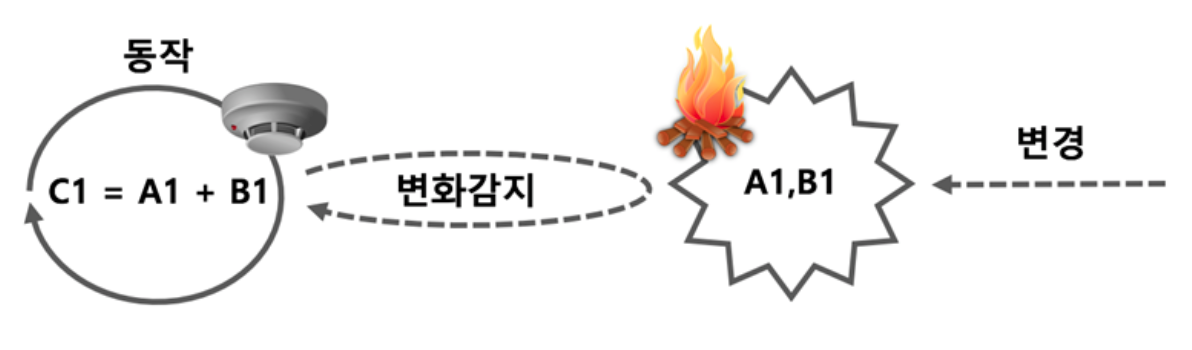
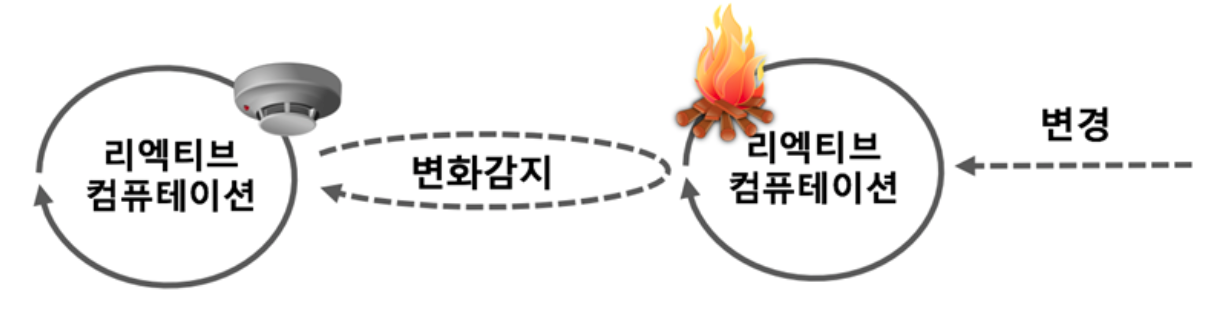
GitBook: [master] 49 pages and 4 assets modified

Changed region(s): [[0.0, 0.0, 0.9933, 0.9062], [0.8381, 0.3125, 0.9312, 0.4688]]

diff --git a/29/29.2.md b/29/29.2.md
@@ -1,0 +1,127 @@
+# 29.2 기본 패키지를 이용한 실습
+
+리액티비티는 변화를 발산하는 "리액티브 데이터 소스", 그리고 이 데이터 소스의 변화를 감지하여 \(재\)실행되는 "리액티브 컴퓨테이션", 이 두 가지 핵심 요소로 구성된다. 이것을 엑셀을 통하여 알아보았다. 그렇다면 미티어는 어떨까? 바로 이전 29.1에서의 리액티비티 정리 1, 2, 3이 미티어에서도 해당하는지 실험해보자.
+
+실험하기 위해서 프로젝트를 생성한다\(이해를 위해서는 직접 해 보는 걸 권하지만, 다른 장에서 참조를 통해 넘어 온 거라면 가볍게 읽고 넘어가도 좋다\).
+
+`콘솔에서 reactivity 프로젝트 생성` : 
+
+```text
+~/Projects$ meteor create reactivity
+reactivity: created.                          
+
+To run your new app:                          
+  cd reactivity                               
+meteor
+
+~/Projects$ cd reactivity
+~/Projects/reactivity$ meteor run
+```
+
+콘솔을 하나 더 열고 미티어에서 리액티브 데이터 리소스를 만들어 주는 reactive-var 패키지를 설치하자.
+
+```text
+~/Projects/reactivity$ meteor add reactive-var 
+
+reactive-var: Reactive variable     
+~/Projects/reactivity$
+```
+
+이제 준비가 다 되었다. 이제부터 코드로 미티어의 리액티비티를 증명해보자!
+
+> **리액티비티 정리 1**  
+> 리액티브 컴퓨테이션은 함수 구문에 리액티브 데이터 소스\(A1, B2\)의 변화를 감지하여 재실행된다.
+
+정리 1을 실험해 보기 위해서는 미티어에서 리액티브 데이터 소스 A1, B1을 만들어야 한다. ~/Projects/reactivity/client/main.js 파일 내부의 모든 내용을 지우고 다음과 같이 작성해보자.
+
+`~/Projects/reactivity/client/main.js` : 
+
+```javascript
+    A1 = new ReactiveVar(5);
+    B1 = new ReactiveVar(8);
+    console.log( "A1 : ", A1.get(), ", B1 : ", B1.get() );
+```
+
+그리고 ~/Projects/reactivity/client/main.html 파일의 내용을 모두 비우자.
+
+`~/Projects/reactivity/client/main.html` : 
+
+```javascript
+<!-- 삭제합니다 -->
+```
+
+미티어에서 리액티브 데이터 소스를 만드는 오브젝트인 ReactiveVar 객체를 이용하여 A1, B1이라는 리액티브 데이터 소스를 5, 8이라는 초깃값을 주어 생성했다. ReactiveVar 객체의 get 메서드를 이용해 콘솔에 값을 출력해 보았다. 결과는 다음 그림과 같다.
+
+![&#xADF8;&#xB9BC; 29-8 &#xB9AC;&#xC561;&#xD2F0;&#xBE0C; &#xB370;&#xC774;&#xD130; &#xC18C;&#xC2A4; &#xC0DD;&#xC131; &#xBC0F; &#xCD9C;&#xB825; &#xD14C;&#xC2A4;&#xD2B8;](../.gitbook/assets/image%20%2828%29.png)
+
+이제 리액티브 데이터 컴퓨테이션 함수 C1을 다음과 같이 만들자.
+
+`~/Projects/ reactivity/client/main.js` :
+
+```javascript
+  ...생략...
+  C1 = function(){
+        var sum = A1.get() + B1.get();
+        console.log( "여기는 C1 함수 fx = A1+B1 => ", sum);
+        return sum;
+    };
+  Tracker.autorun(C1);
+```
+
+C1 함수는 엑셀에서처럼 `A1.get() + B1.get();`을 반환하게 작성했다. 하지만 미티어에서 리액티브 데이터 소스를 함수 내에서 사용하는 것만으로 리액티브 컴퓨테이션 함수가 되는 것은 아니다. `Tracker` 객체의 `autorun` 메서드를 이용해 리액티브 컴퓨테이션으로 만들어 주어야 한다.
+
+{% hint style="info" %}
+Tracker 객체에는 autorun 메서드가 있으며 우리가 작성한 함수를 사용자 리액티브 컴퓨테이션 함수로 만들어 준다. 구 버전에서는 Deps 객체였으나 Tracker로 이름이 변경되었다.
+{% endhint %}
+
+이제 선언했으니 A1.set\(값\) 형태로 콘솔에서 변경시켜서 리액티브 컴퓨테이션 C1이 자동으로 호출되는지를 확인해보자. 웹 브라우저 개발자 도구의 콘솔에서 다음처럼 입력해보자.
+
+```javascript
+> A1.set(12);
+```
+
+또한, B1 값도 set을 이용하여 22로 변경해보자.
+
+```javascript
+> B1.set(22);
+```
+
+컴퓨테이션의 동작을 그림에서 확인해보자.
+
+![&#xADF8;&#xB9BC; 29-9 &#xCEF4;&#xD4E8;&#xD14C;&#xC774;&#xC158; &#xB3D9;&#xC791; &#xD655;&#xC778;1](../.gitbook/assets/image%20%2818%29.png)
+
+C1 함수를 A1과 B1의 합을 구하는 함수로 선언만했는데, A1, B1 값이 변경된 것을 감지하여 C1 함수가 자동으로 호출되었다\(**리액티비티 정리1**\).
+
+> **리액티비티 정리 2**  
+> 리액티브 컴퓨테이션은 또 다른 리액티브 컴퓨테이션의 데이터 소스가 될 수 있다.
+
+**리액티비티 정리 2**를 실험해보자. 실험을 위해 기존 코드에 다음과 같이 C2 코드를 추가해보자.
+
+`~/Projects/ reactivity/client/main.js` : 
+
+```javascript
+    ...생략...
+    C2 = function(){
+        var avg = C1() / 2;
+        console.log( "여기는 C2 함수 fx = C1/2 =>", avg);
+        return avg ;
+    };
+    Tracker.autorun(C2);
+```
+
+그리고 콘솔의 지난 로그를 삭제 후 다음처럼 입력해보자\(Clear console 버튼을 클릭하거나 콘솔에서 Ctrl+L을 누르면 로그가 삭제된다\).
+
+```javascript
+> A1.set(12);
+```
+
+결과가 다음 그림처럼 나온다. 그림을 살펴보자.
+
+![&#xADF8;&#xB9BC; 29-10 &#xCEF4;&#xD4E8;&#xD14C;&#xC774;&#xC158; &#xB3D9;&#xC791; &#xD655;&#xC778;2](../.gitbook/assets/image%20%2824%29.png)
+
+첫 번째로 콘솔 로그를 지웠다. 그 뒤 A1 값을 변경함으로 인해서 C1, C2 함수가 자동으로 호출되었다. 
+
+이는 A1이 변경됨을 감지한 C1\(리액티브 컴퓨테이션\)함수가 자동으로 재계산되었고, C1이 자동으로 재계산되어 반환값이 변경됨을 감지한 C2 함수가 자동으로 호출되었다. 이것은 리액티비티 정리 2, 3이 동작한 것임을 알 수 있다.  과정에서 C1함수는 2번 호출 되었다. 첫번째로는 A1이 변경됨으로 인하여, 또 한번은 C1이 변경됨을 감지한 C2함수의 내용 안에 C1함수 호출이 포함되어 있어 총 2번 호출되었다.
+
+미티어도 엑셀과 같은 리액티비티의 세 가지 특징을 갖고 있음을 알 수 있고, ReactiveVar와 Tracker를 이용하여 사용자가 직접 리액티브 데이터 소스와 리액티브 컴퓨테이션 함수를 작성할 수 있음을 알 수 있다.
+

diff --git a/29/29.1.md b/29/29.1.md
@@ -1,0 +1,51 @@
+# 29.1 리액티비티의 개념과 미티어
+
+리액티비티 프로그래밍은 미티어를 이루는 개념의 큰 축이지만 아주 오래전부터 우리 주변에 있어온 개념이다. 가장 가까운 예제가 엑셀이다. 엑셀을 언급하기 전에 다음 코드를 잠깐 살펴보자.
+
+```text
+A1 = 5
+B1 = 8
+C1 = A1 + B1    
+A1 = 2 
+
+print(C1)
+```
+
+print가 값을 출력하는 함수라고 할 때 C1은 몇이 출력될까? 물론 13이 출력될 것이라고 추측된다. 일반 프로그래밍에서 C1은 13이다. 하지만 리액티브 프로그래밍에서 C1은 10이다. C1 = A1 + B1이라고 선언만 하여도 A1이나 B1 값이 바뀌면 그것이 감지되어 C1 값은 자동으로 재계산되어 할당된다.
+
+이것을 엑셀에서 한 번 살펴보자
+
+![&#xADF8;&#xB9BC; 29-2 &#xC5D1;&#xC140;&#xC758; &#xB9AC;&#xC561;&#xD2F0;&#xBE44;&#xD2F0;1](../.gitbook/assets/image%20%285%29.png)
+
+그림처럼 작성하고 나서 A1이나 B1의 값을 바꿔보자. C1의 값은 자동으로 변경되는 걸 확인할 수 있다. 우리는 A1이나 B1 셀의 값만 바꾸었을 뿐 C1의 값을 재계산하기 위해 아무것도 하지 않았다.
+
+다시 엑셀로 돌아가 다음 그림을 보자.
+
+![&#xADF8;&#xB9BC; 29-3 &#xC5D1;&#xC140;&#xC758; &#xB9AC;&#xC561;&#xD2F0;&#xBE44;&#xD2F0;2](../.gitbook/assets/image%20%2811%29.png)
+
+C1의 값은 "fx=A1+B1"라고 표시되어 있다. 화재를 감지한 뒤 물을 뿌리는 동작을 정의한 것이다. 즉, fx는 A1과 B1을 더하여 C1에 할당하는 "동작"을 정의했다. 그리고 이 동작은 A1과 B1이 변경 될 때마다 엑셀에 의해 자동으로 재호출된다. 이것이 엑셀의 "리액티비티"다.
+
+![&#xADF8;&#xB9BC; 29-4 &#xC5D1;&#xC140;&#xC758; &#xB9AC;&#xC561;&#xD2F0;&#xBE44;&#xD2F0;&#xAC00; &#xB3D9;&#xC791;&#xD558;&#xB294; &#xBC29;&#xC2DD;](../.gitbook/assets/image%20%2830%29.png)
+
+
+
+미티어에서는 A1, B1처럼 데이터를 포함한 셀을 "리액티브 데이터 소스", 그리고 "A1 + B1"처럼 연산하여 동작하는 것을 "리액티브 컴퓨테이션"이라고 부른다.
+
+![&#xADF8;&#xB9BC; 29-5 &#xB9AC;&#xC561;&#xD2F0;&#xBE0C; &#xB370;&#xC774;&#xD130; &#xC18C;&#xC2A4;&#xC640; &#xB9AC;&#xC561;&#xD2F0;&#xBE0C; &#xCEF4;&#xD4E8;&#xD14C;&#xC774;&#xC158;](../.gitbook/assets/image%20%286%29.png)
+
+
+
+그리고 리액티브 컴퓨테이션은 또 다른 컴퓨테이션의 소스가 될 수 있다. 다음 그림을 보자.
+
+![&#xADF8;&#xB9BC; 29-6 &#xB9AC;&#xC561;&#xD2F0;&#xBE44;&#xD2F0;&#xC758; &#xC804;&#xC774;](../.gitbook/assets/image%20%2814%29.png)
+
+위 그림에서 C1은 "fx = C1 / 2" 안에 C2의 값을 결정하는 함수의 데이터 소스로 사용된다. 이것은 리액티브 컴퓨테이션은 다른 컴퓨테이션의 데이터 소스가 될 수 있음을 의미한다. 게다가 A1, B1의 값이 변경되면 그 이벤트의 감지가 C1을 거쳐 C2까지 자동으로 전달된다. 이것은 미티어도 마찬가지다.
+
+![&#xADF8;&#xB9BC; 29-7 &#xB9AC;&#xC561;&#xD2F0;&#xBE0C; &#xCEF4;&#xD4E8;&#xD14C;&#xC774;&#xC158;&#xC744; &#xB370;&#xC774;&#xD130; &#xC18C;&#xC2A4;&#xB85C; &#xC0AC;&#xC6A9;&#xD560; &#xC218; &#xC788;&#xB2E4;](../.gitbook/assets/image%20%2833%29.png)
+
+지금까지 엑셀을 통해 알아본 리액티비티에 대한 성질을 정리하면 이렇다.
+
+1. **리액티비티 정리 1**  리액티브 컴퓨테이션은 함수 구문에 있는 리액티브 데이터 소스\(A1, B2\)의 변화를 감지하여 재실행 된다.  ****
+2. **리액티비티 정리 2** 리액티브 컴퓨테이션은 또 다른 리액티브 컴퓨테이션의 데이터 소스가 될 수 있다.  ****
+3. **리액티비티 정리 3**  리액티브 데이터 소스의 변화는 이를 감싸고 있는 상위 데이터 컴퓨테이션으로 전이되어 변화가 감지된다.
+

diff --git a/29/29.4.md b/29/29.4.md
@@ -1,0 +1,26 @@
+# 29.4 서버의 리액티비티
+
+미티어 서버에서 리액티비티의 핵심은 몽고DB 데이터 변화에 대한 감지다. 몽고DB\(마스터 또는 프라이머리\)는 데이터에 변화가 있을 때마다 오퍼레이션 로그를 남기고 복제 서버\(슬레이브 또는 세컨더리\)들이 로그를 읽어 스스로 반영한다. 이를 간단하게 도식화하면 다음과 같다.
+
+![&#xADF8;&#xB9BC; 29-13 &#xBABD;&#xACE0;DB&#xC758; &#xBCF5;&#xC81C;\(&#xB808;&#xD50C;&#xB9AC;&#xCE74; &#xC138;&#xD2B8;\) &#xC6D0;&#xB9AC;](../.gitbook/assets/image%20%2819%29.png)
+
+insert나 update 또는 remove에 의한 데이터 변경이 있을 때마다 몽고DB 프라이머리는 자신의 local 데이터베이스의 oplog.rs라는 컬렉션에 모든 로그를 기록한다. 만약 한 건의 update 요청에 의해 여러 건에 영향을 미쳤다면 친절하게도 모든 영향 받은 데이터를 로그로 남긴다. 이를 통해 세컨더리 몽고DB들은 서버와 똑같은 데이터를 가질 수 있게 된다.
+
+이런 몽고DB의 복제 원리를 미티어에서 잘 이용하고 있다. 그림으로 그려 보면 다음과 같다.
+
+![&#xADF8;&#xB9BC; 29-14 &#xBBF8;&#xD2F0;&#xC5B4;&#xC758; oplog &#xC2A4;&#xCE90;&#xB2DD;](../.gitbook/assets/image%20%2826%29.png)
+
+미티어 서버는 몽고DB의 슬레이브와 같이 oplog를 스캐닝하고 있다가 변화가 감지되면 구독 요청이 들어온, 현재 연결된 모든 웹 브라우저에 변화된 데이터를 보내준다. 따라서 웹 브라우저에서도 미니몽고에 반영할 수 있게 되는 것이다. 이제 서버의 리액티비티와 브라우저에서의 리액티비티를 하나로 연결하여 데이터 흐름을 보면 다음 그림과 같다.
+
+![&#xADF8;&#xB9BC; 29-15 &#xBBF8;&#xD2F0;&#xC5B4;&#xC758; &#xB9AC;&#xC561;&#xD2F0;&#xBE44;&#xD2F0;](../.gitbook/assets/image%20%2816%29.png)
+
+1. 몽고DB에서 insert, update, remove 등으로 인해 변화가 일어난다.
+2. 몽고DB는 oplog에 변화에 대한 모든 로그를 남긴다.
+3. 미티어 서버는 oplog의 변화를 감지한다.
+4. 변경된 데이터를 발행/구독으로 연결된 클라이언트로 전송한다.
+5. 미티어 서버에서 구독하여 변경된 정보를 미니몽고에 반영한다.
+6. 템플릿 헬퍼는 미니몽고 변화를 감지하고 변경된 데이터를 DOM에 제공한다.
+7. 변경된 데이터로 해당 DOM을 업데이트한다.
+
+이렇게 해서 몽고DB에서 변경된 데이터는 클라이언트까지 실시간으로 반영될 수 있다. 이 구간은 모두 리액티비티의 원리로 설명할 수 있다.
+

diff --git a/29/README.md b/29/README.md
@@ -1,0 +1,23 @@
+---
+description: >-
+  이번 장에서는 미티어의 리액티비티를 이해해보자. 리액티비티는 미티어의 근간을 구성하는 개념이지만, 기존 프로그래밍 방식과 달라서 혼자
+  학습하며 개념을 이해하기에 다소 생소하게 느낄 수 있다. 하지만 리액티비티가 그다지 새로운 개념도 아니니 부담을 가질 필요는 없다.
+---
+
+# 29장 리액티비티\(old\)
+
+ 좀 더 쉽게 리액티비티 개념을 이해하기 위해 다음 그림을 보자. 그림에서는 불을 감지하는 센서가 장작의 불을 감지하여 물을 불 위에 뿌리기까지의 과정을 도식화했다.
+
+![](../.gitbook/assets/image%20%2812%29.png)
+
+그림처럼 누군가 나무에 불을 붙였다면 당연히 나무는 불탄다. 이때 나무가 불타는 것을 센서가 감지하여 물을 뿌리게 된다. 이것은 우리 주위에 흔하게 있는 화재 감지 센서 이야기다. 너무도 당연한 이야기이다. 하지만 이것을 프로그래밍 방식으로 적용한다면 어떨까? 만약 그런 방식이 있다면 머라고 할까? 그림에서처럼 변경이 일어나는 무언가를 감지하여 그에 따른 동작을 일으키는 방식의 프로그래밍을 "리액티브 프로그래밍" 또는 "리액티브 프로그램"이라고 한다.
+
+미티어에서는 화재 감지 센서를 "**리액티브 컴퓨테이션**"이라고 하고 센서가 감지하는 대상인 장작을 "**리액티브 데이터 소스**"라고 한다. 다시 말해서 리액티브 데이터 소스\(장작\)가 외적인 요소\(점화\)로 인해 상태가 변경\(불\)되고, 그 변경\(장작-&gt;불\)을 감지한 리액티브 컴퓨테이션\(센서\)이 임의의 동작\(물 뿌리기\)을 하게 만드는 것이다.
+
+그런데 위와 같은 리액티브 프로그래밍을 우리는 이미 하고 있었다. 놀랍게도 우리가 자주 쓰는 엑셀과 같은 프로그램에서 수십 년 동안 존재해온 프로그래밍 방식이다. 그래서 이번 장에서는 미티어에 존재하는 리액티비티를 이해하기 위해, 역사가 오래된 엑셀의 리액티비티를 먼저 살펴보고 몇 가지 특징을 발견해보자. 그다음 발견해낸 특징, 즉 리액티비티의 특징을 미티어로 똑같이 구현해봄으로써 리액티비티를 완벽하게 이해해보자. 순서는 다음과 같다.
+
+* 리액티비티의 개념과 미티어
+* 기본 패키지를 이용한 실습
+* 웹 브라우저의 리액티비티
+* 서버의 리액티비티
+

diff --git a/29/29.3.md b/29/29.3.md
@@ -1,0 +1,20 @@
+# 29.3 웹 브라우저에서 리액티비티
+
+지금까지 리액티비티의 원리에 대하여 직접 구현하면서 알아보았다. 그리고 스페이스바에서 어떻게 리액티비티가 동작하는지 "26.6 스페이스바의 리액티비티"에서도 알아보았다. 이번에는 리액티비티가 클라이언트에서 어떻게 동작하는지 좀 더 구체적으로 알아보자. 우선 다음 그림을 살펴보자.
+
+![&#xADF8;&#xB9BC; 29-11 &#xD074;&#xB77C;&#xC774;&#xC5B8;&#xD2B8;&#xC5D0;&#xC11C;&#xC758; &#xB9AC;&#xC561;&#xD2F0;&#xBE44;](../.gitbook/assets/image%20%2831%29.png)
+
+그림에서 클라이언트에서 리액티비티에 의한 DOM의 변경 동작 순서는 다음과 같다.
+
+* 발행/구독에 따라 미니몽고의 데이터가 변화된다.
+* 변화된 미니몽고의 데이터가 감지되어 템플릿 헬퍼가 DOM을 업데이트한다.
+* 실제로 DOM이 변경된 부분만 업데이트된다.
+
+미티어의 발행/구독 코드에 따라 서버에서 추가, 변경, 삭제된 데이터가 미니몽고에 실시간으로 반영된다. 템플릿 헬퍼는 이 변화를 감지하여 DOM을 업데이트한다. 이때 DOM 전체를 업데이트하지 않고 변화된 부분만 업데이트한다. 주소록의 경우 name 필드의 값이 바뀌었으면 name을 표현하는 td의 HTML 코드만 업데이트한다. 해당 리스트나 tr 요소 전체를 업데이트하지 않는다.
+
+3장 주소록 만들기의 예제 코드에서 DOM 변경 동작 리액티비티 코드는 다음과 같다.
+
+![&#xADF8;&#xB9BC; 29-12 &#xD074;&#xB77C;&#xC774;&#xC5B8;&#xD2B8;&#xC5D0;&#xC11C;&#xC758; &#xB9AC;&#xC561;&#xD2F0;&#xBE44;&#xD2F0; &#xCF54;&#xB4DC;](../.gitbook/assets/image%20%289%29.png)
+
+일반적인 프로그램 방식처럼 사용자 이벤트 발생 시 서버에 데이터를 요청하고, 서버에서 데이터를 반환 받아 DOM을 업데이트하는 것과 달리, 미티어 클라이언트의 리액티비티는 미니몽고가 변경되면 해당 시점에 DOM을 업데이트하므로 실시간 프로그램을 작성하기가 쉽다. 또한, 미니몽고는 발행/구독에 의해 서버 데이터의 변경 사항을 지속적으로 반영하므로 몽고DB에서 DOM까지 실시간으로 반영되는 프로그램을 작성하기가 쉬워진다. 다음은 서버가 어떻게 몽고DB의 변화를 감지하는지 알아보자.
+

diff --git a/29/29.5.md b/29/29.5.md
@@ -1,0 +1,18 @@
+# 29.5 기본 리액티브 데이터 소스와 컴퓨테이션들 살펴 보기
+
+미니몽고의 데이터, 정확히 말하면 미니몽고의 find 문장이 반환하는 커서는 가장 중요한 "**리액티브 데이터 소스**"이고 Template의 helpers 맵 안에 있는 함수들은 이를 감지하는 "**리액티브 컴퓨테이션**" 함수다. 이외에 미티어가 기본으로 제공하는 리액티브 데이터 소스와 컴퓨테이션에 대하여 몇 가지 살펴보자.
+
+**리액티브 데이터 소스 :** 
+
+* Session – 미티어의 세션이다. 세션은 핫 코드 푸시\(실시간 소스 업데이트\)에도 값이 유지되는 특성이 있다.
+* Meteor.status – 현재 클라이언트\(웹 브라우저\)서 서버와 접속 상태를 알 수 있는 데이터 소스다.
+* 구독 함수\(subscribe\)가 반환하는 핸들의 ready\(\) – 현재 구독이 정상인지 여부를 알 수 있다.
+* Meteor.user – 로그인된 사용자, 로그아웃될 경우 변경된다.
+* Mestor.userId – 로그인된 사용자의 아이디, 로그아웃될 경우 변경된다.
+* Meteor.logingIn – 현재 로그인 중인지를 나타내는 값으로 로그인이 완료되면 변경된다. 로그인 중인 상태를 표시하고자 할 때 유용하다.
+
+**리액티브 컴퓨테이션 :**
+
+* Tracker.autorun – 인자로 넘어가는 콜백 함수를 컴퓨테이션 함수로 만들어준다. 반환된 구독 핸들을 이용해 변화 감지를 제어할 수 있다. 가령 구독 핸들의 stop 함수를 호출하면 구독을 즉시 중지한다.
+* Template.autorun – Tracker.autorun과 같으나 Template의 onDestroyed 함수가 호출되면 자동으로 구독을 정지하므로 템플릿 인스턴스의 onCreated에서 안에서 데이터를 구독할 때는 이 함수를 이용하는 게 좋다
+

diff --git a/SUMMARY.md b/SUMMARY.md
@@ -33,7 +33,12 @@
 * [26장 템플릿 언어 스페이스바\(empty\)](26.md)
 * [27장 미티어 템플릿의 이해\(empty\)](27.md)
 * [28장 미티어 메서드\(empty\)](28.md)
-* [29장 리액티비티\(old\)](29.md)
+* [29장 리액티비티\(old\)](29/README.md)
+  * [29.1 리액티비티의 개념과 미티어](29/29.1.md)
+  * [29.2 기본 패키지를 이용한 실습](29/29.2.md)
+  * [29.3 웹 브라우저에서 리액티비티](29/29.3.md)
+  * [29.4 서버의 리액티비티](29/29.4.md)
+  * [29.5 기본 리액티브 데이터 소스와 컴퓨테이션들 살펴 보기](29/29.5.md)
 * [30장 발행과 구독의 이해\(empty\)](30.md)
 * [31장 5분 만에 만드는 REST 서버 예제\(empty\)](31-5-rest.md)
 * [32장 SQL 질의 vs NoSQL 질의 vs 미티어 컬렉션 API\(empty\)](32-sql-vs-nosql-vs-api.md)

diff --git a/README.md b/README.md
@@ -6,7 +6,7 @@ description: >-
 
 # 개요
 
-우측 메뉴 , 즉 , 중앙 타이틀명에 괄호 표시가 있습니다. 의미는 다음과 같습니다. 
+각장의 타이틀명에 괄호 표시가 있습니다. 그 의미는 다음과 같습니다. 
 
 | 꼬리표 | 의미 |
 | :---: | :--- |
